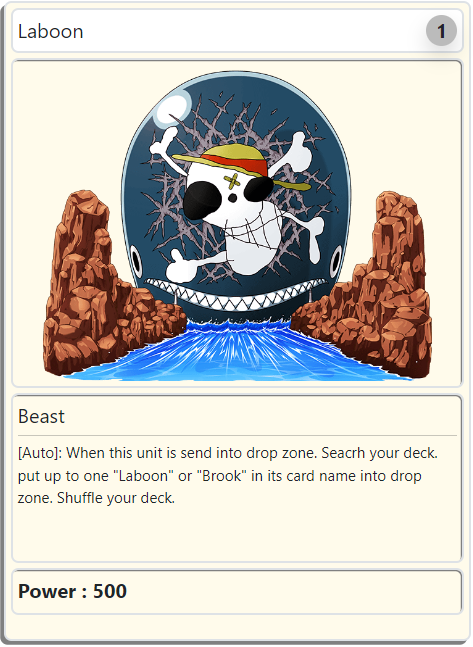
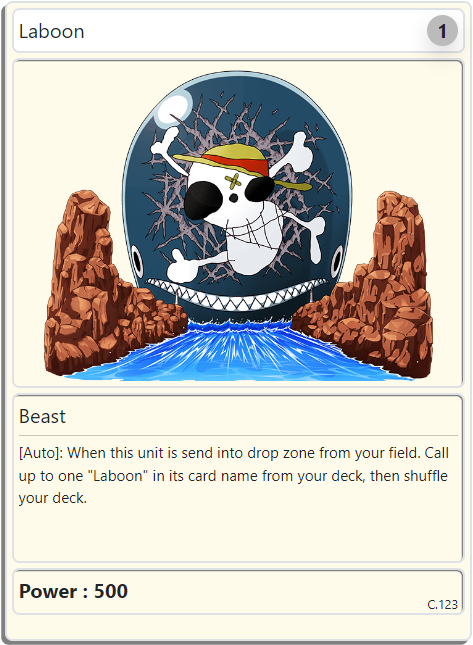
C123

Changed region(s): [[0.0, 0.0, 1.0, 1.0], [0.592, 0.124, 0.6512, 0.155], [0.9175, 0.031, 0.9471, 0.062]]

diff --git a/src/views/arena/new-arena/index.vue b/src/views/arena/new-arena/index.vue
@@ -882,7 +882,8 @@ export default {
         data.unit.card.code === '111' ||
         data.unit.card.code === '118' ||
         data.unit.card.code === '119' ||
-        data.unit.card.code === '120'
+        data.unit.card.code === '120' ||
+        data.unit.card.code === '121'
       ) {
         data.option.act = 'ACT'
       }
@@ -2595,6 +2596,7 @@ export default {
       if (data.unit.card.code === '094') { this.EFF094(data) }
       if (data.unit.card.code === '104') { this.EFF104(data) }
       if (data.unit.card.code === '120') { this.EFF120_AUTO(data) }
+      if (data.unit.card.code === '122') { this.EFF122(data) }
     },
     AUTO_ON_SEND_TO_DROP (data) {
       if (data.unit.card.code === '009') { this.EFF009(data) }
@@ -2605,6 +2607,7 @@ export default {
       if (data.unit.card.code === '057') { this.EFF057(data) }
       if (data.unit.card.code === '077') { this.EFF077(data) }
       if (data.unit.card.code === '115') { this.EFF115(data) }
+      if (data.unit.card.code === '123') { this.EFF123(data) }
       this.AUTO_UNIT_DESTROY_ON_HAND(data)
     },
     AUTO_UNIT_DESTROY_ON_HAND (data) {
@@ -2885,6 +2888,7 @@ export default {
         if (data.unit.card.code === '118') { this.EFF118(data) }
         if (data.unit.card.code === '119') { this.EFF119(data) }
         if (data.unit.card.code === '120') { this.EFF120_ACT(data) }
+        if (data.unit.card.code === '121') { this.EFF121(data) }
         data.unit.onePerTurn = true
       }
     },
@@ -5607,12 +5611,35 @@ export default {
       this.COST(data)
       data.gain = 1500
       this.AUTO_POWER(data)
+    },
+    EFF121 (data) { // Tashigi
+      data.cost = 'pay life'
+      data.pay = 500
+      this.COST(data)
+      data.grade = 3
+      data.job = 'Swordman'
+      data.todo = 'DECK TO HAND'
+      this.SEARCH_DECK_FOR_JOB_AND_GRADE_LESS(data)
+    },
+    EFF122 (data) { // Crocus
+      if (data.who === 'player') { data.drop = this.data.player.drop }
+      if (data.who === 'opponent') { data.drop = this.data.opponent.drop }
+      let count = 0
+      data.drop.map((unit) => {
+        if (unit.name === 'Laboon') { count += 1 }
+      })
+      this.heal({ who: data.who, heal: 1000 * count })
+    },
+    EFF123 (data) { // Laboon
+      data.name = 'Laboon'
+      data.todo = 'CALL FROM DECK'
+      this.SEARCH_DECK_FOR_NAME(data)
     }
   },
   created () {
     this.parse(this.deckPlay, 'player')
     this.parse(this.deckOpponent, 'opponent')
-    this.shuffle({ who: 'player', deck: this.data.player.deck })
+    // this.shuffle({ who: 'player', deck: this.data.player.deck })
     this.shuffle({ who: 'opponent', deck: this.data.opponent.deck })
     for (let i = 0; i < 5; i++) { // Max Hand Card 14
       this.draw({ who: 'player' })

diff --git a/src/views/index.vue b/src/views/index.vue
@@ -2730,7 +2730,8 @@ export default {
                 job: '',
                 special: ''
               },
-              text: '[Auto]: When this unit is send into drop zone. Seacrh your deck. put up to one "Laboon" or "Brook" in its card name into drop zone. Shuffle your deck.',
+              text: '[Auto]: When this unit is send into drop zone from your field. Call up to one "Laboon" in its card name from your deck, then shuffle your deck.',
+              // text: '[Auto]: When this unit is send into drop zone. Seacrh your deck. put up to one "Laboon" or "Brook" in its card name into drop zone. Shuffle your deck.',
               power: 500,
               code: '123'
             },
